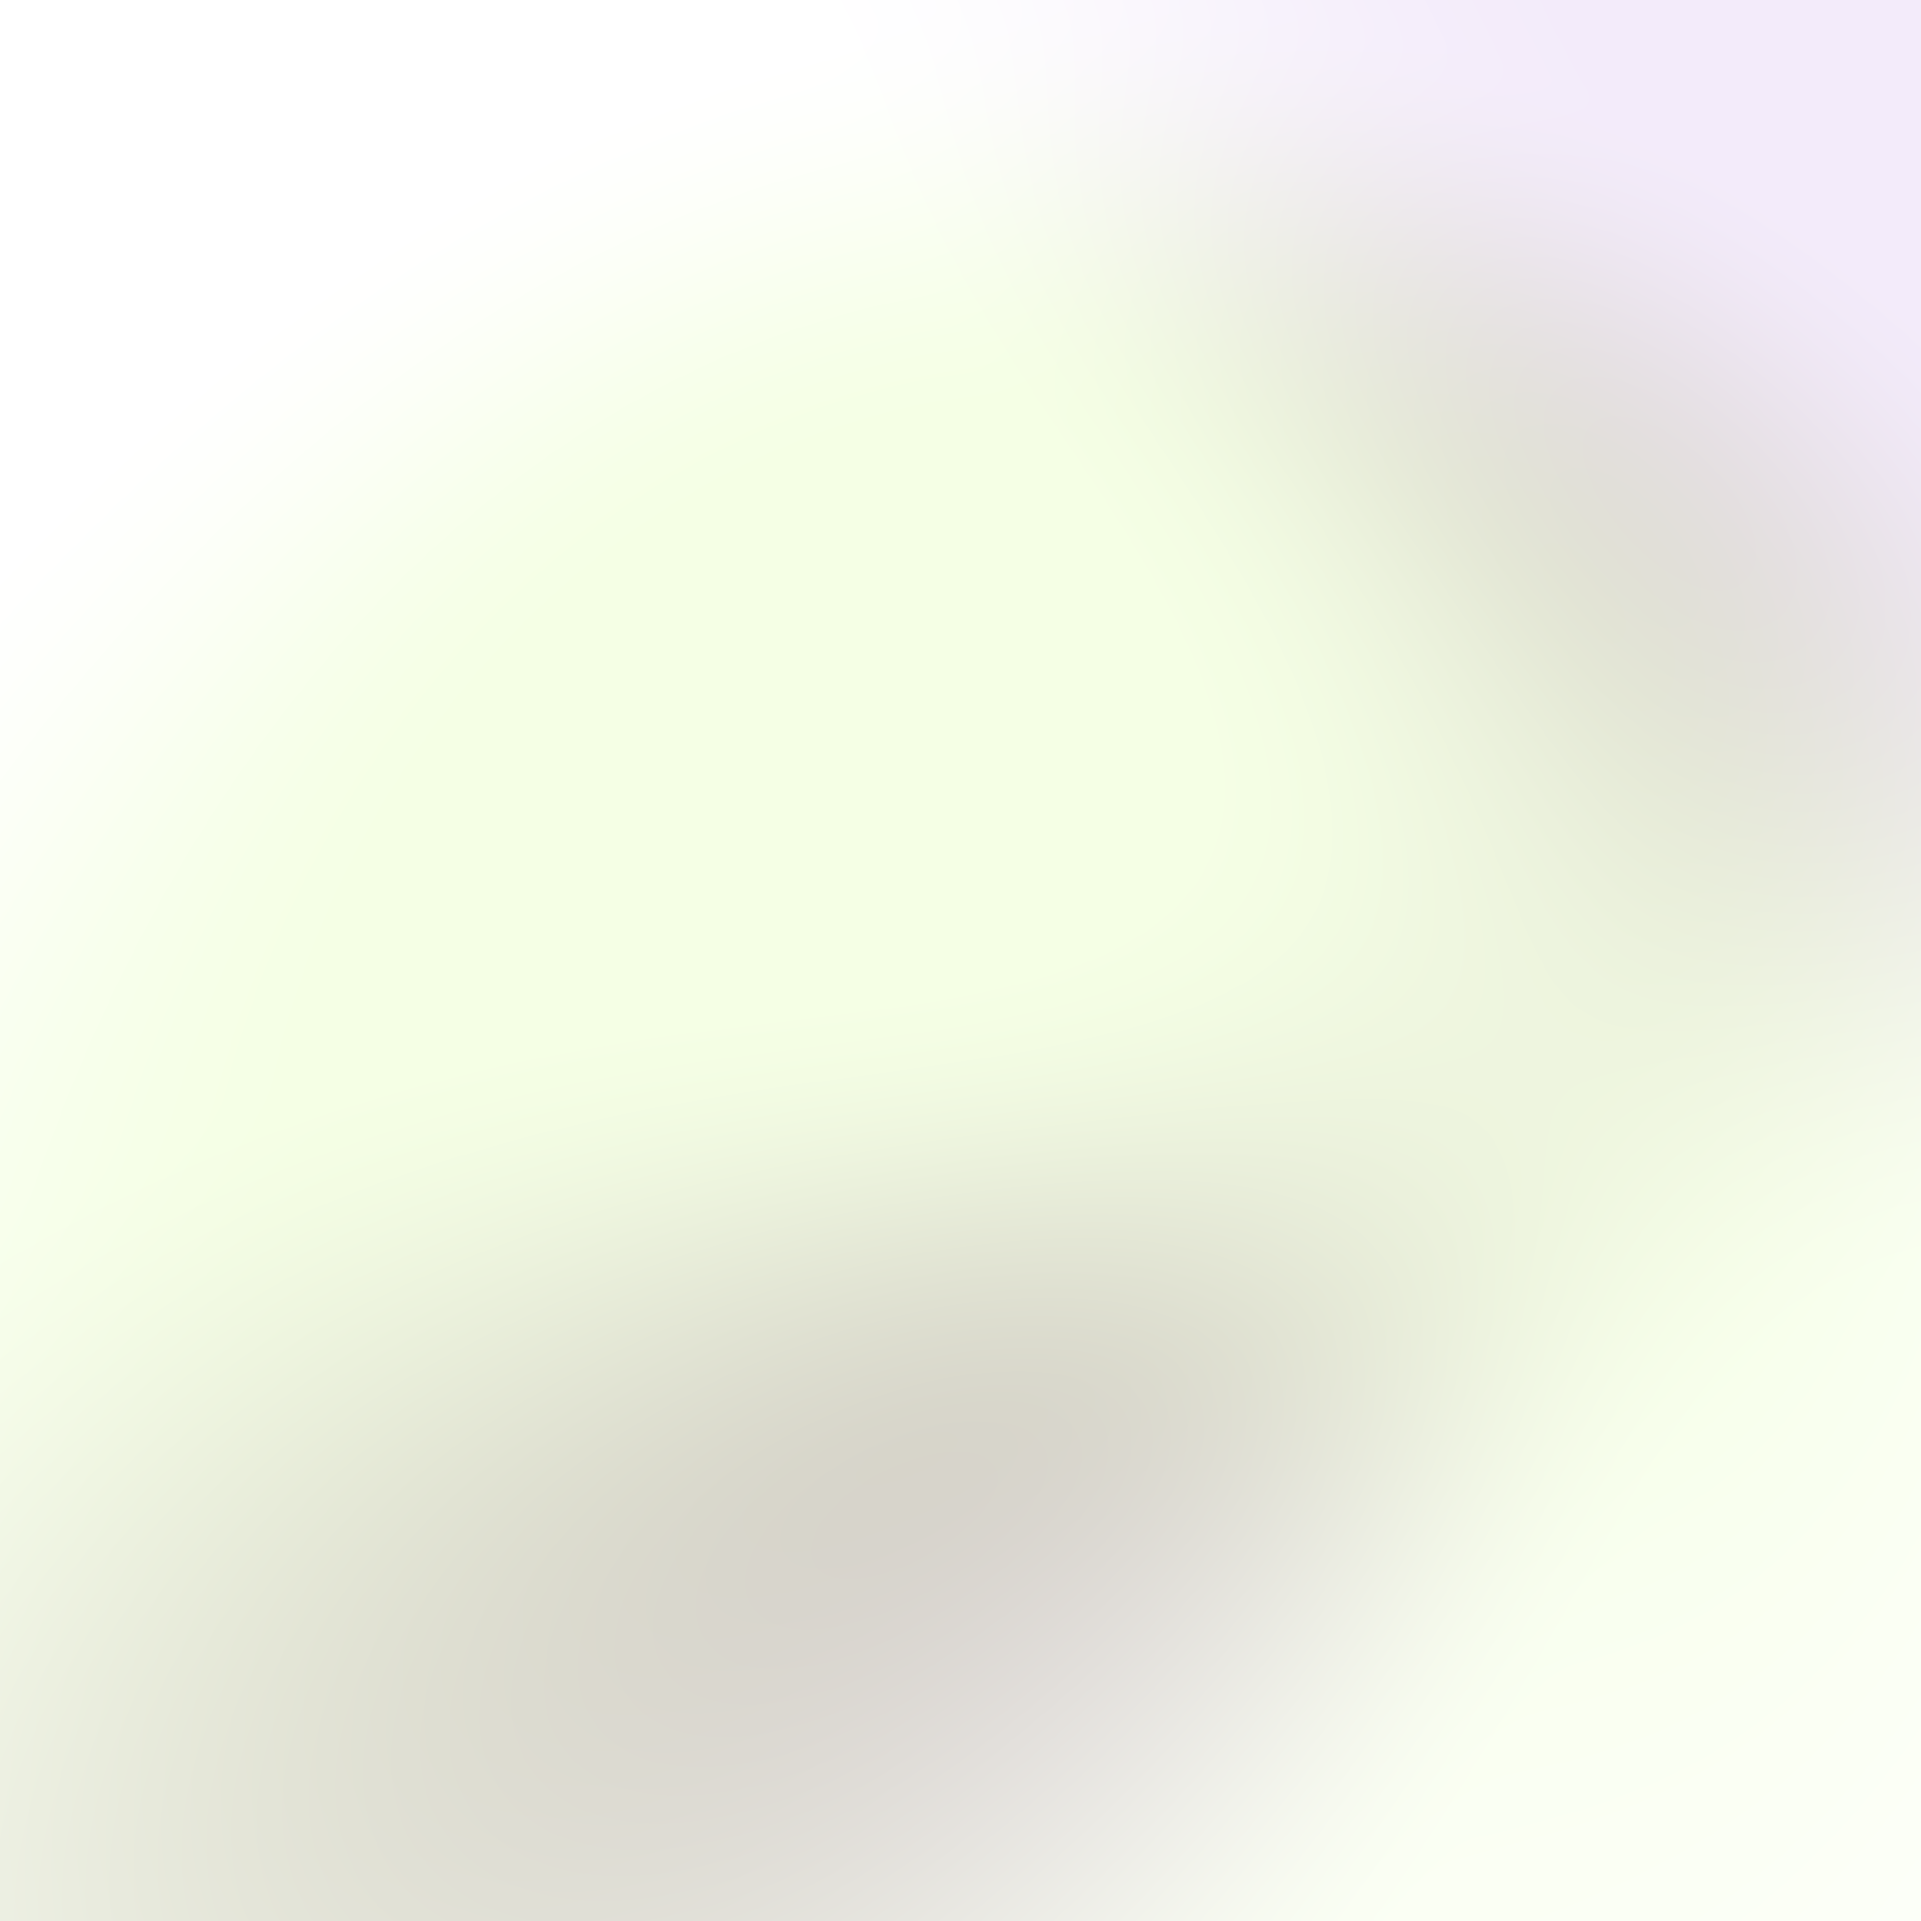
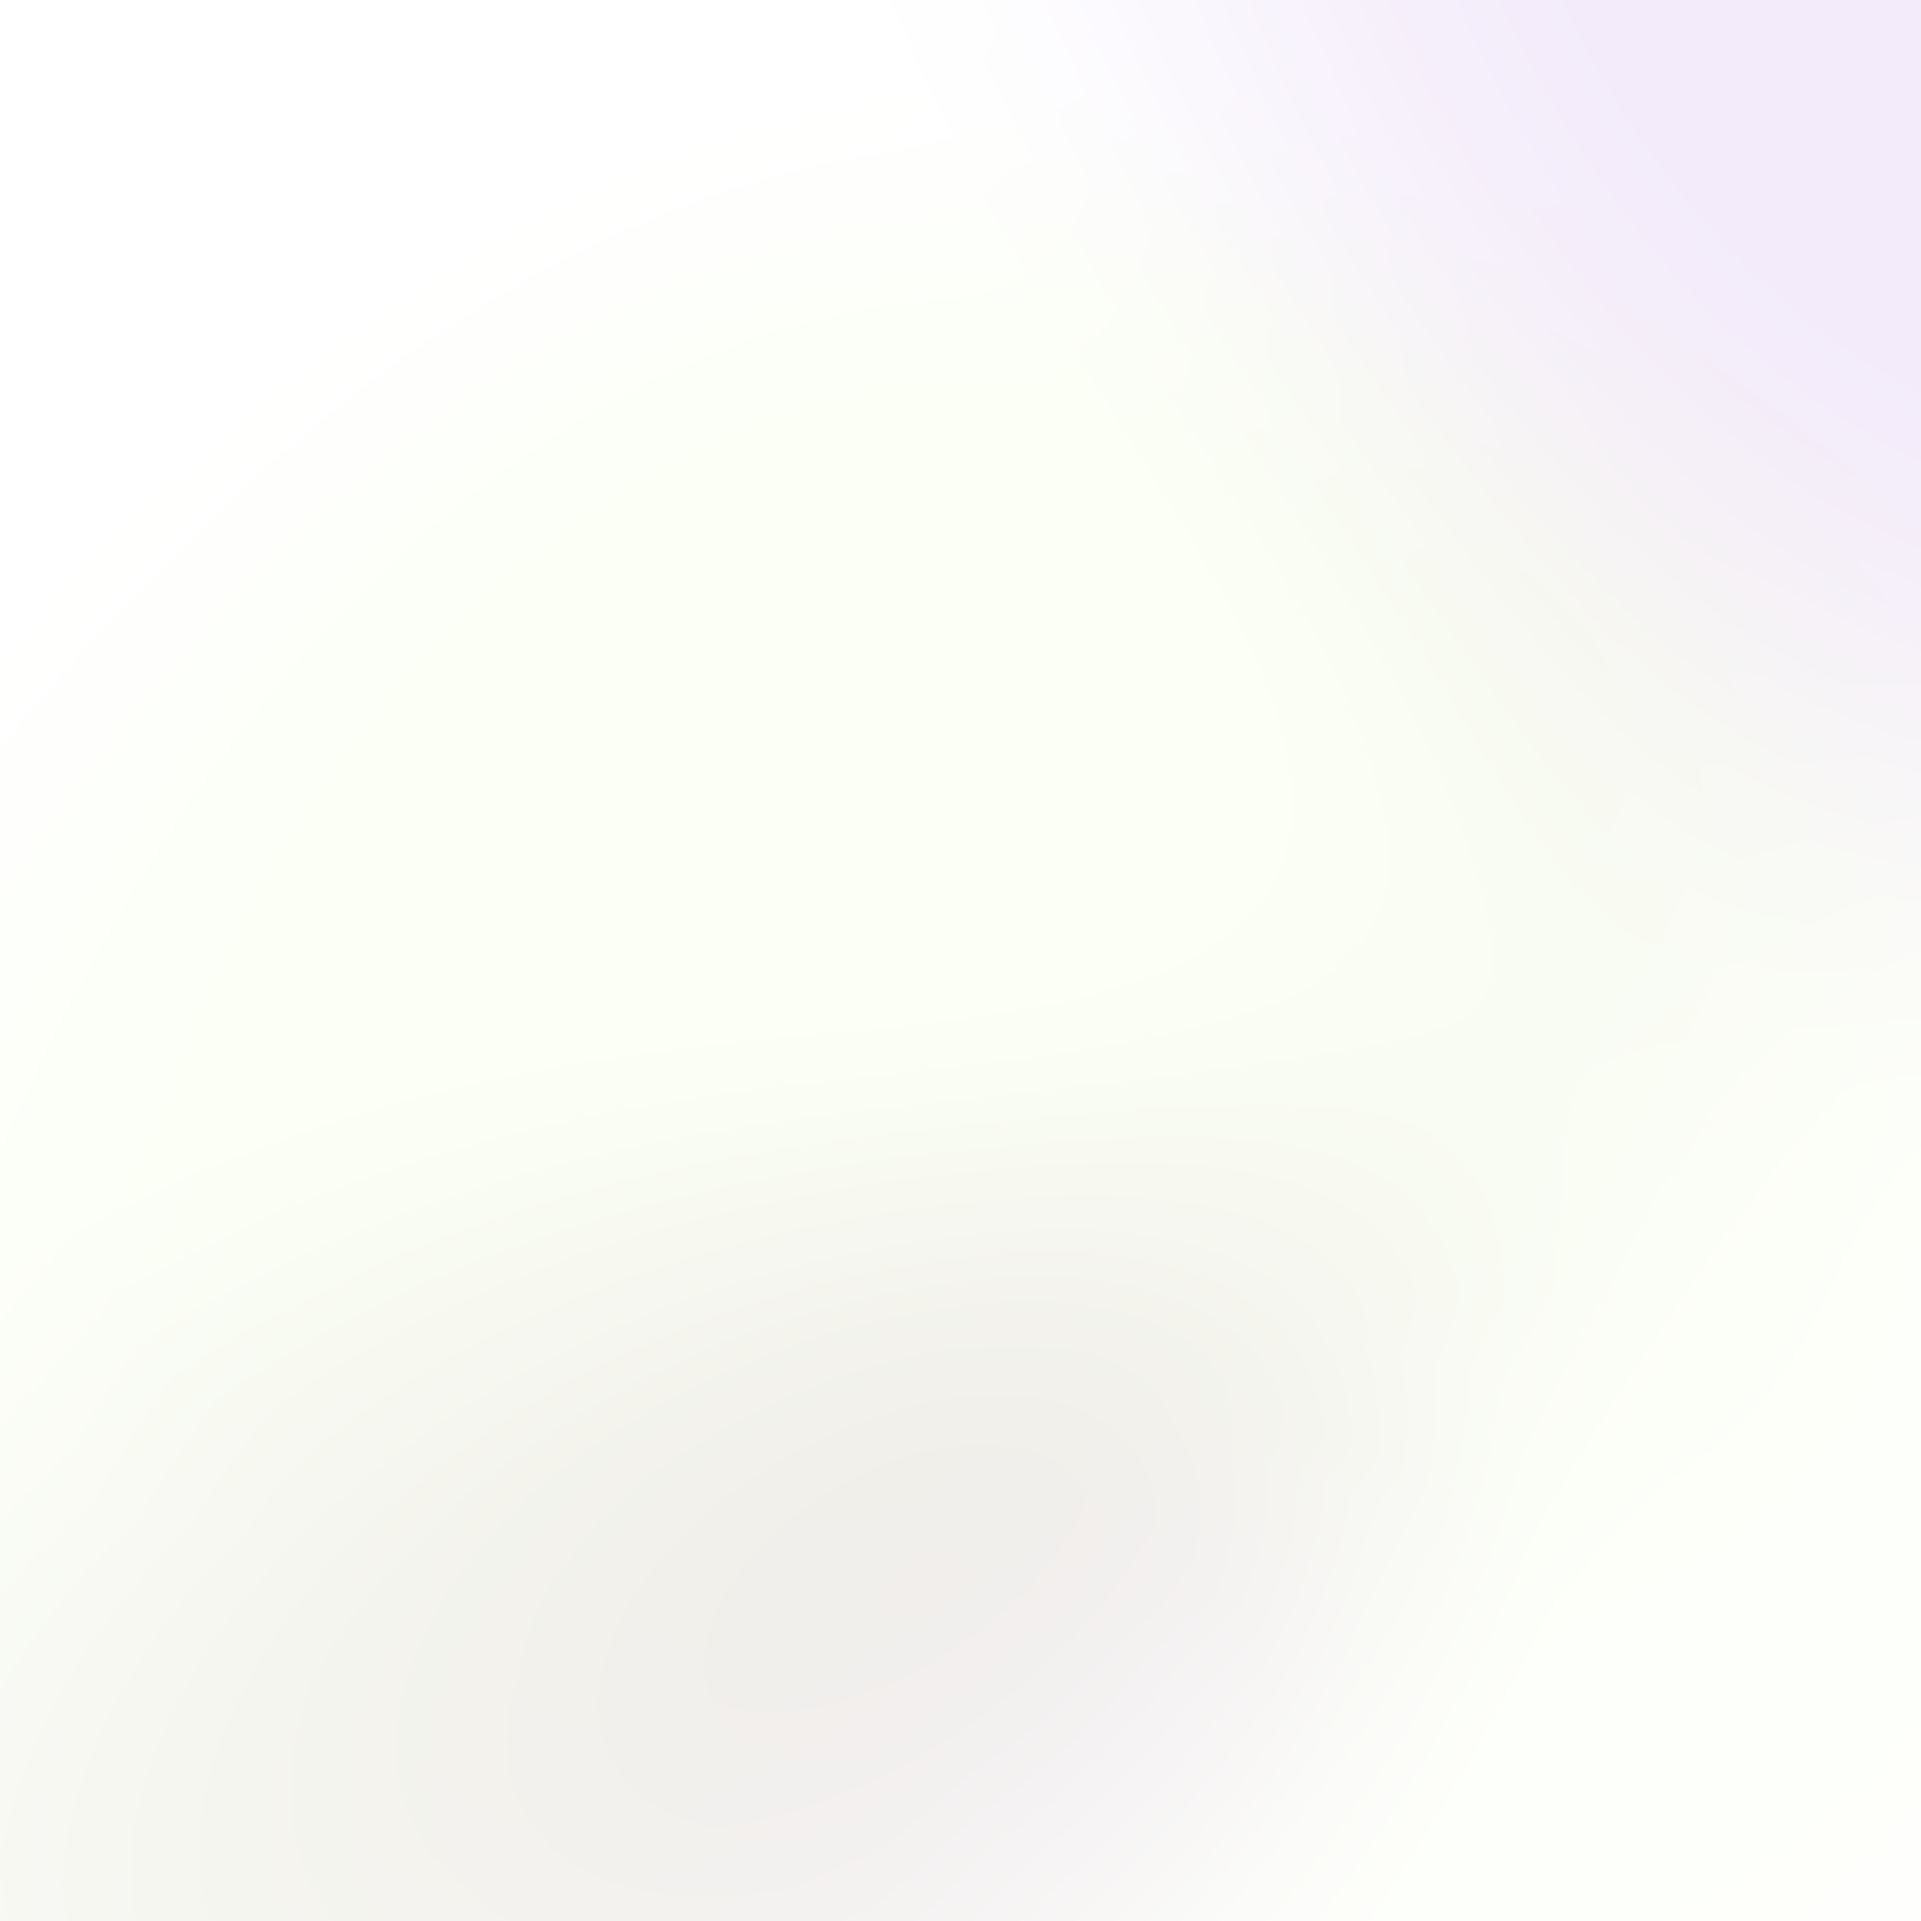
fix: fixed background

Changed region(s): [[0.124, 0.62, 0.713, 1.0], [0.682, 0.155, 0.961, 0.465]]

diff --git a/src/main.js b/src/main.js
@@ -15,7 +15,7 @@ const store = new createStore({
         error: null,
         user: '',
         page: 1,
-        pages: [1,2,3,4]
+        
     },
 
     mutations: {
